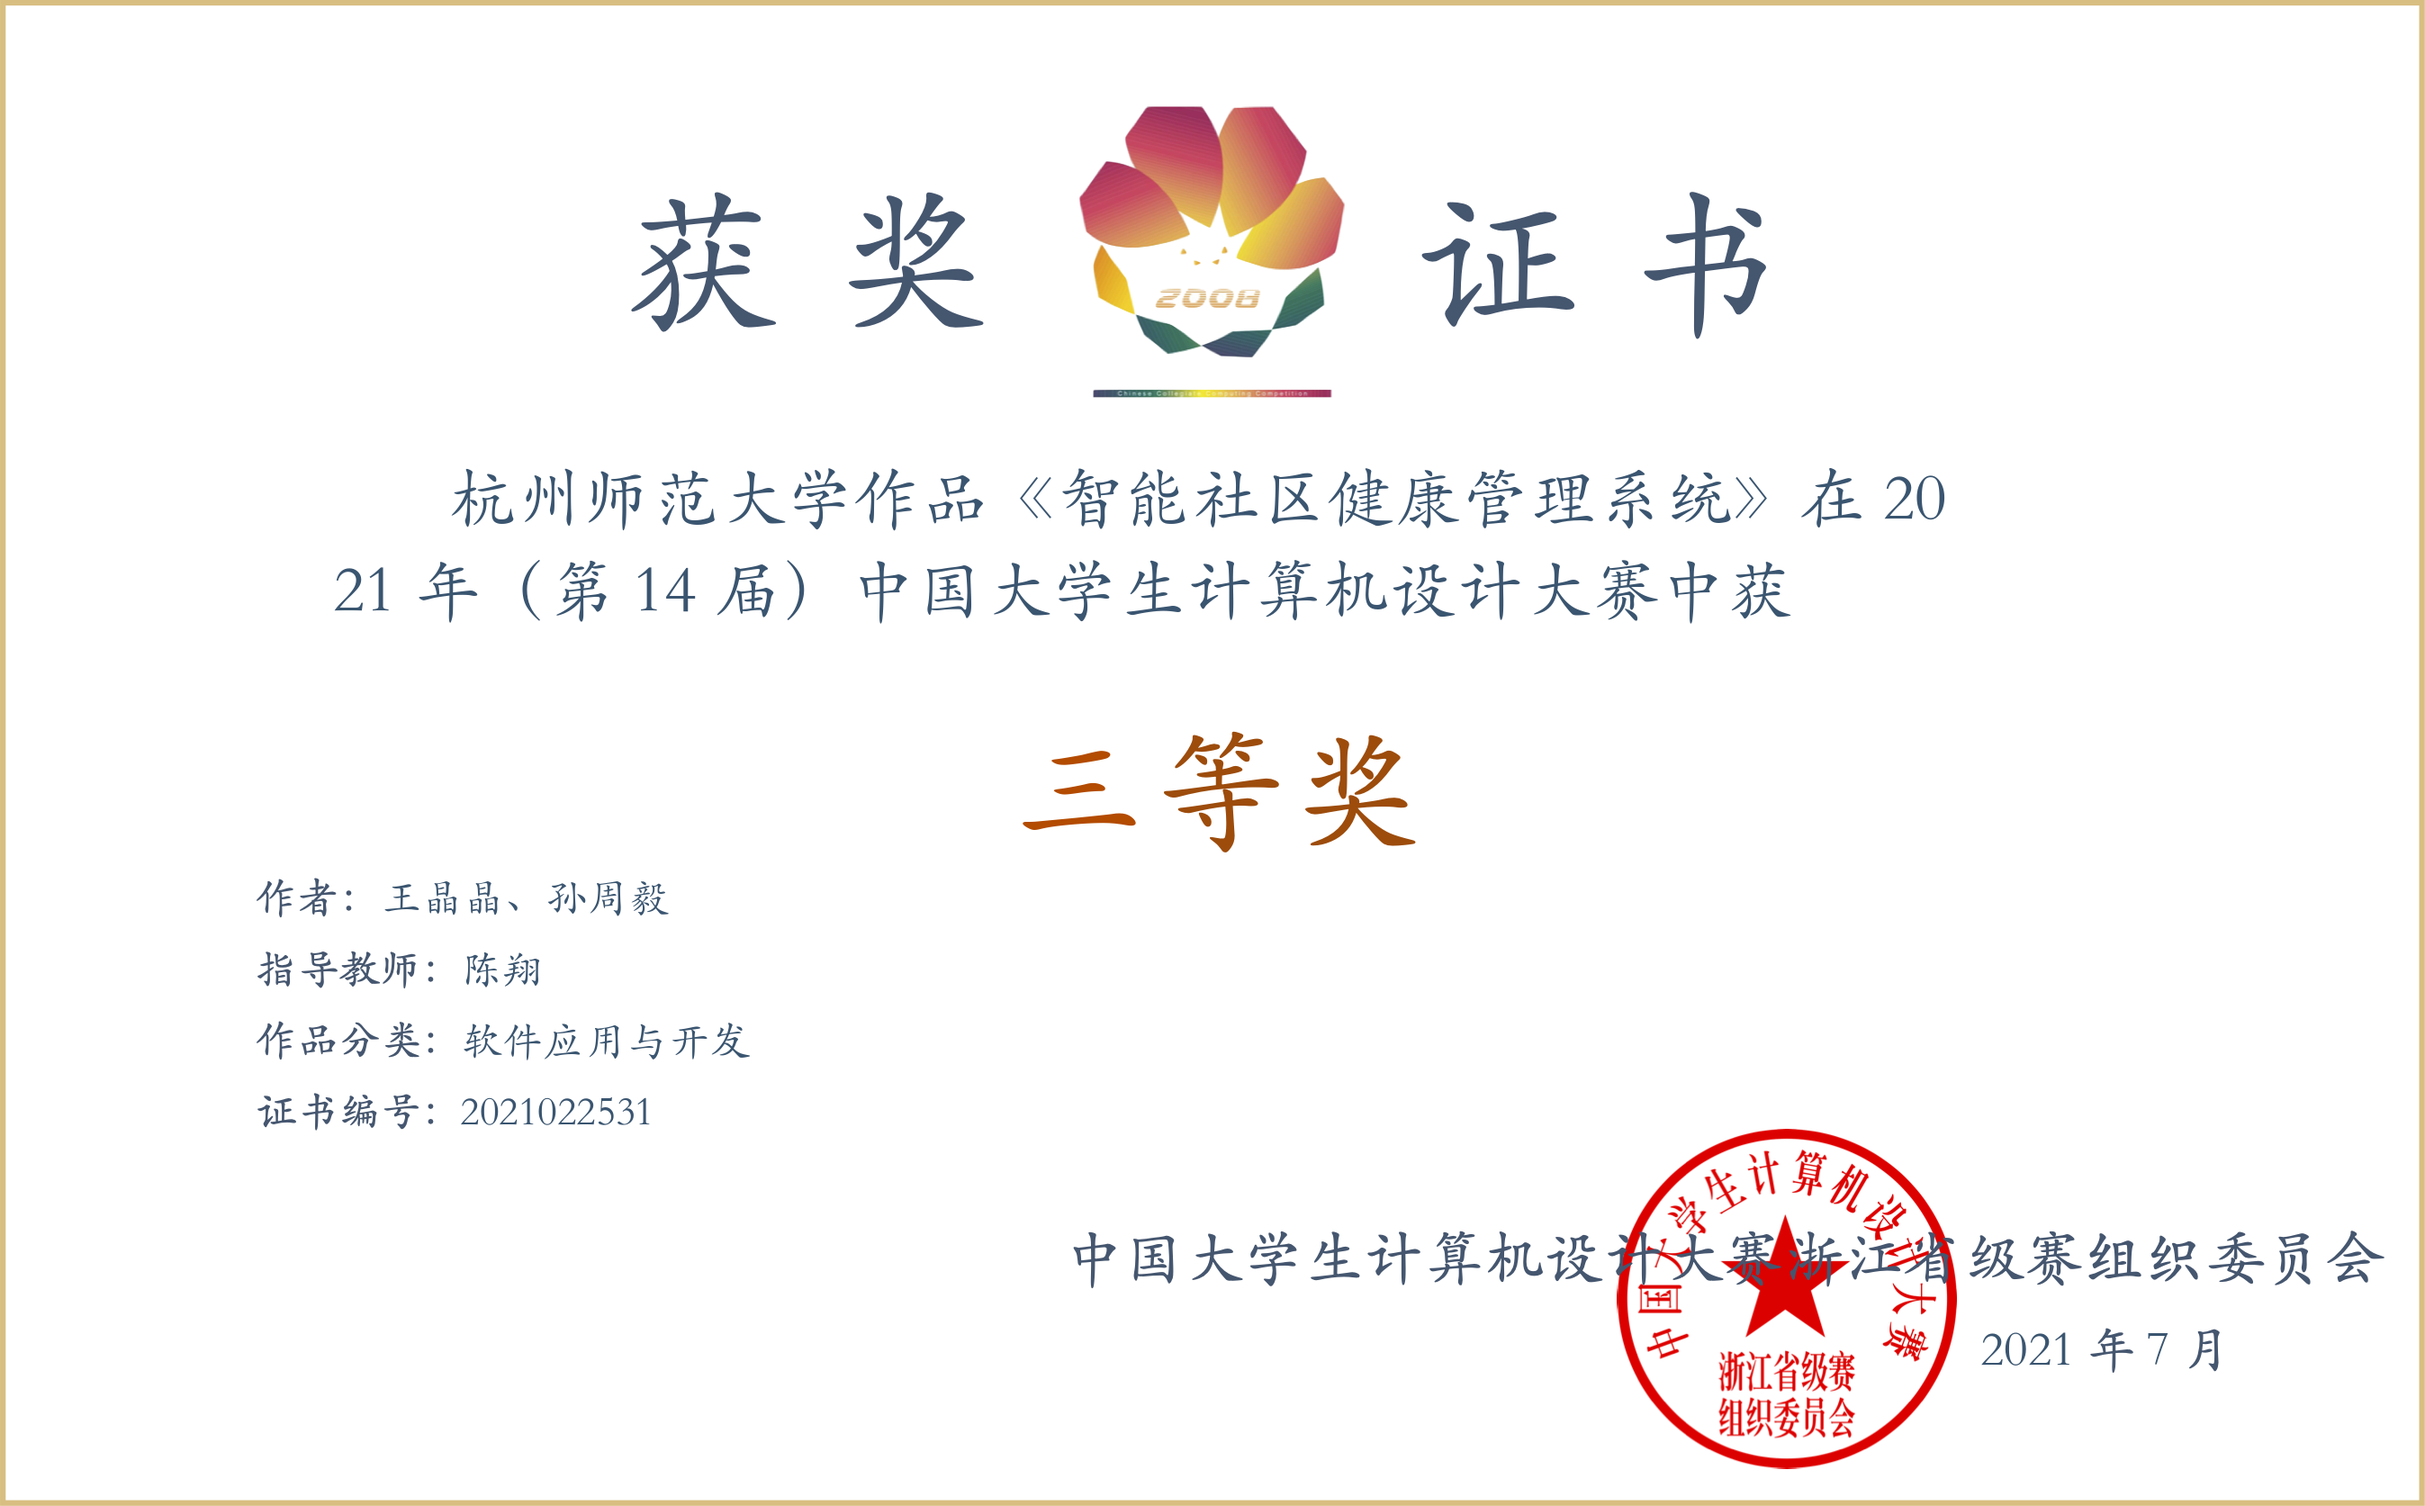
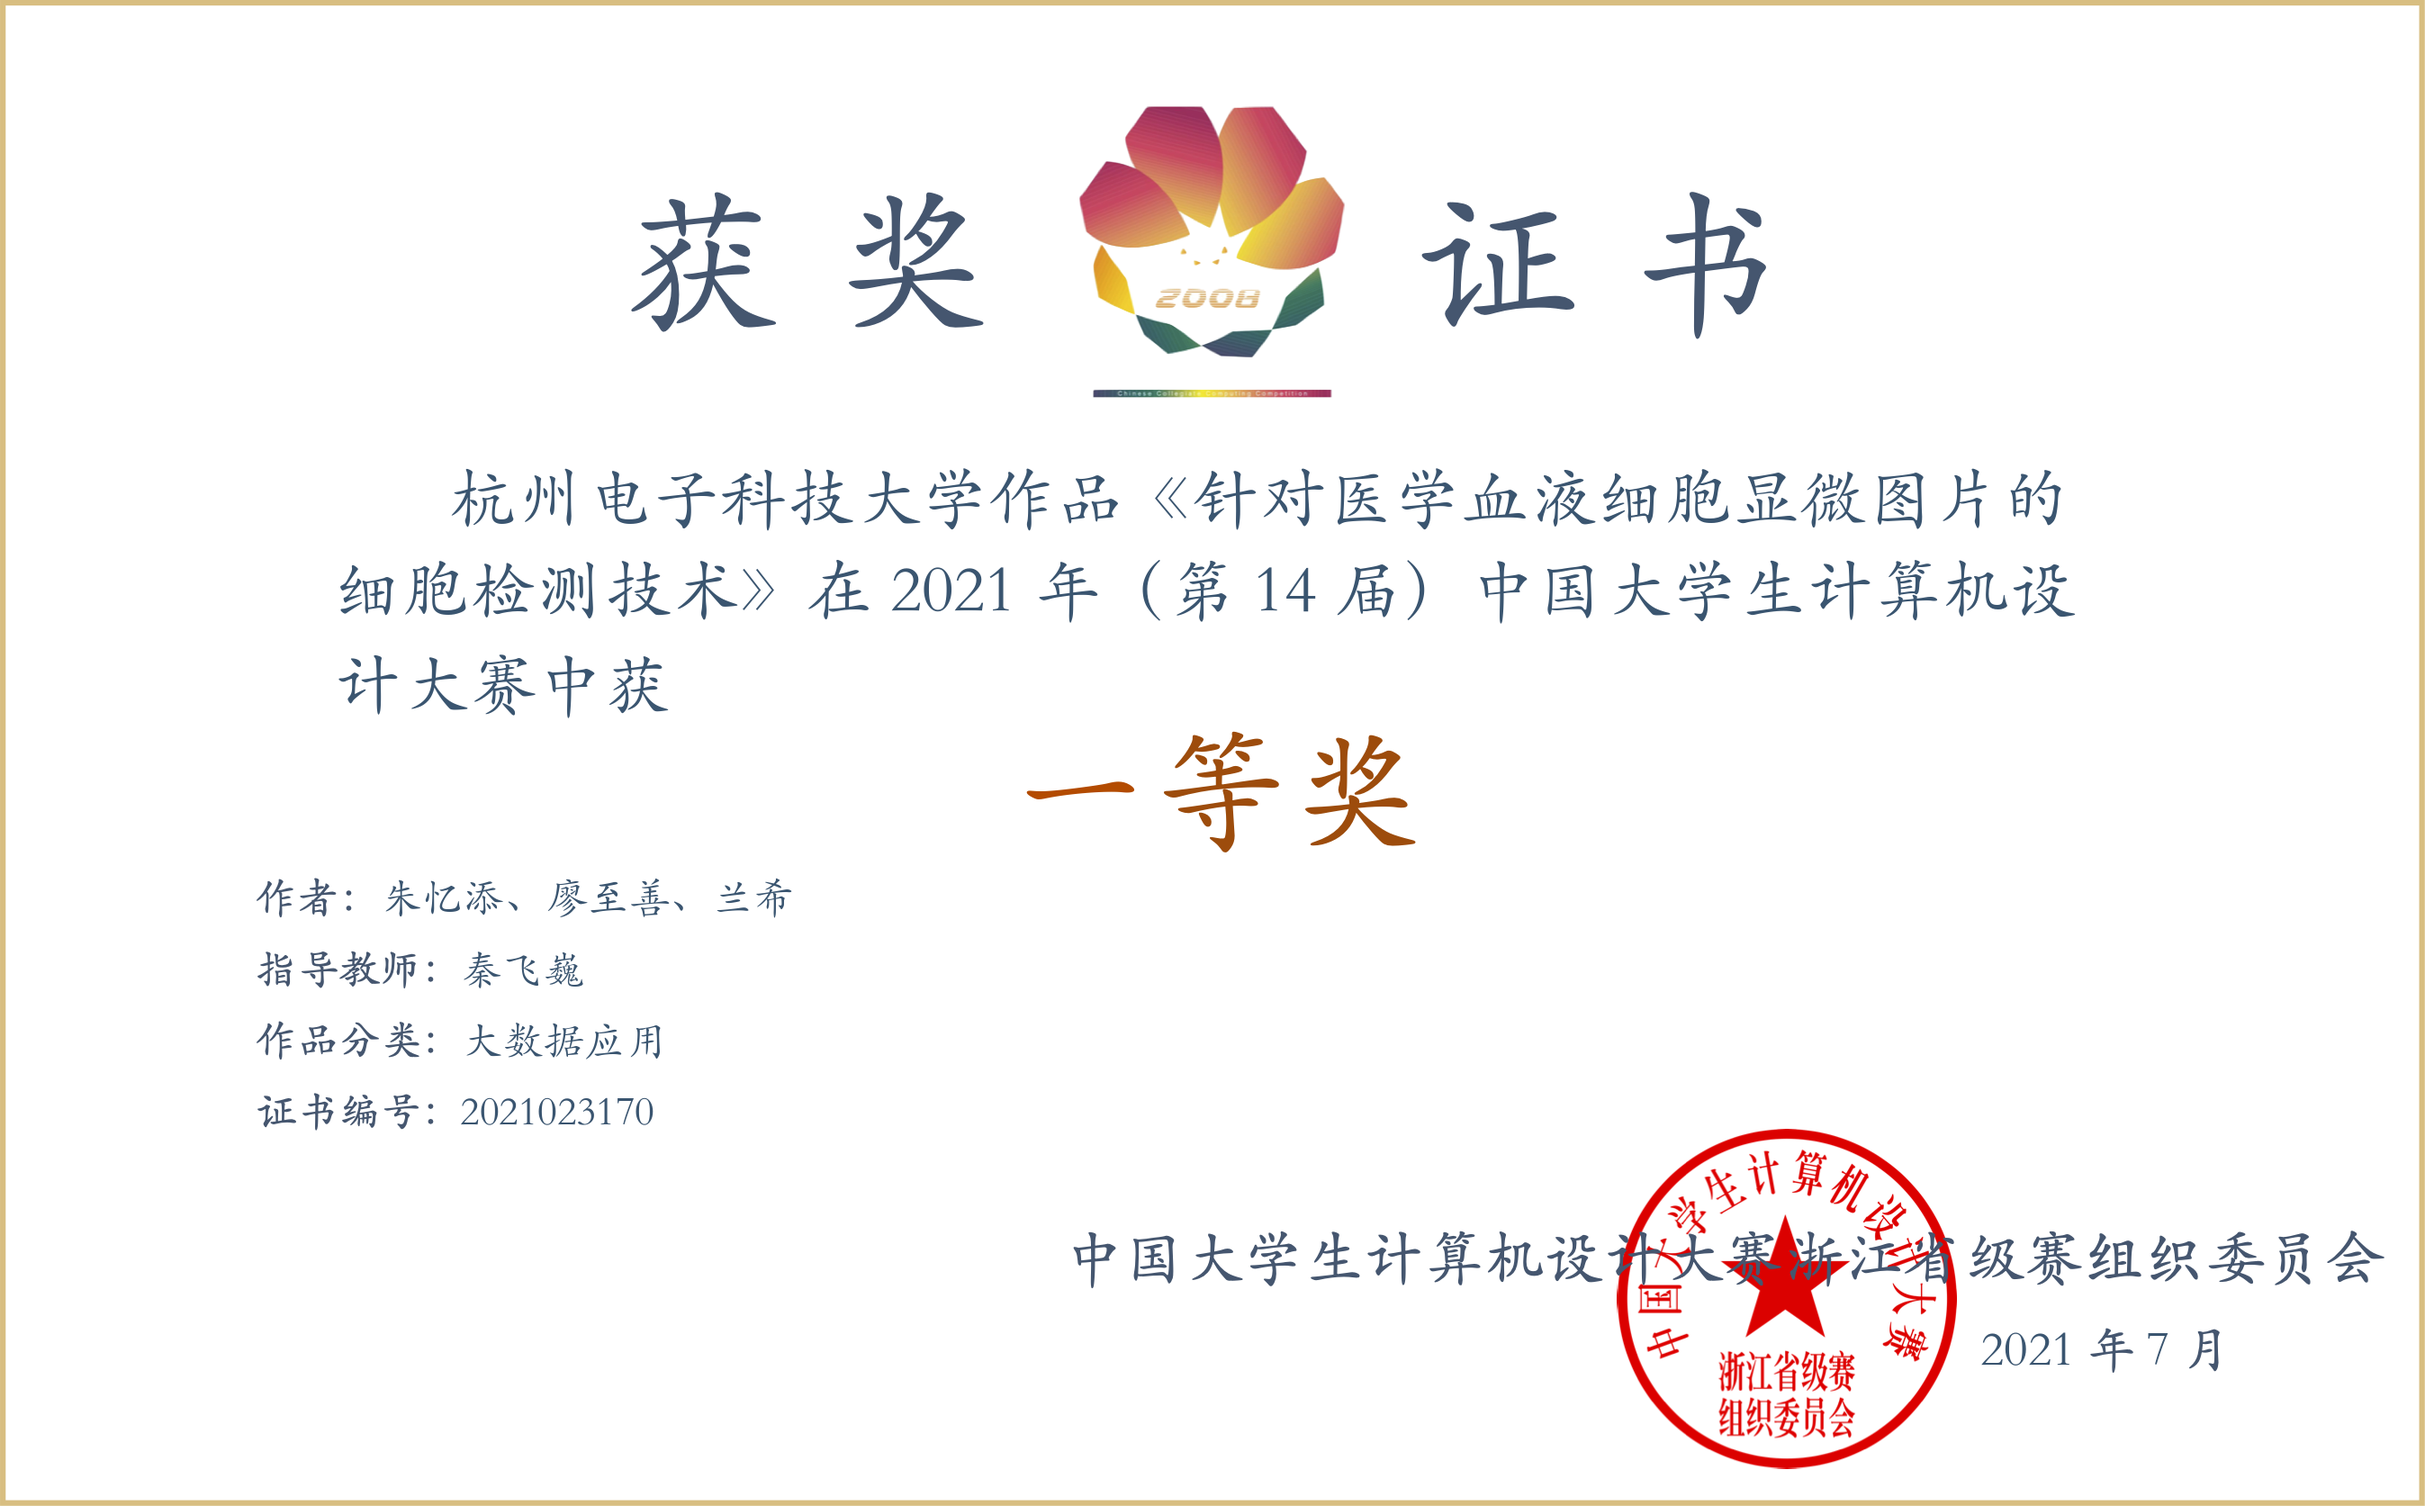
Complete automatic branch function

diff --git a/test.py b/test.py
@@ -1,11 +1,52 @@
 
-from GenCertificateInfo import CertificateInformation
-from InfoSource.dealExcel import read_xlsx
+from TextProcess import *
+
+STKaiti = 'Source/Fonts/STKaiti.ttf'
+
+body_font = ImageFont.truetype(STKaiti, size=75)
+
+text = '杭州电子科技大学作品《针对医学血液细胞显微图片的细胞检测技术》在 2021 年（第 14 届）中国大学生计算机设计大赛中获'
+
+def splitText(text: str, warpSize: int):
+    splitPos = len(text)
+    while tempDraw.textsize(text[0:splitPos], font=body_font)[0] > warpSize:
+        if splitPos == 0:
+            break
+        splitPos -= 1
+    print(text[:splitPos])
+
+    punc = ['》', '）']
+    if text[splitPos] in punc:
+        splitPos += 1
+
+    def isAorD(idx):
+        c = text[idx]
+        return c.encode('UTF-8').isalpha() or c.encode('UTF-8').isdigit() or c == ' '
+
+    if isAorD(splitPos):
+        strat = splitPos
+        end = splitPos
+        while isAorD(strat):
+            strat -= 1
+        strat += 1
+        while isAorD(end):
+            end += 1
+        if tempDraw.textsize(text[strat:splitPos], font=body_font)[0] > \
+                tempDraw.textsize(text[splitPos:end], font=body_font)[0]:
+            splitPos = end
+        else:
+            splitPos = strat
+    print(tempDraw.textsize(text[0:splitPos], font=body_font))
+    return splitPos
+
+sp1 = splitText(text, 1800)
+sp2 = splitText(text[sp1:], 2000)
 
 
-tbFP = 'Source/NameList/nameList.xlsx'
+tempDraw.text((498, 502), text[0:sp1], font=body_font, fill=RGBColor(179, 75, 0))
+tempDraw.text((370, 604), text[sp1:sp1+sp2], font=body_font, fill=RGBColor(179, 75, 0))
+tempDraw.text((370, 709), text[sp1+sp2:], font=body_font, fill=RGBColor(179, 75, 0))
 
-readE = read_xlsx(tbFP)
-
-cert = CertificateInformation(readE[0])
-print(cert.id)
+save_adress = './zout.png'
+tempImg.save(save_adress)
+print("荣誉证书制作完成")

diff --git a/GenCertificateInfo.py b/GenCertificateInfo.py
@@ -1,7 +1,9 @@
 import time
 from TextProcess import *
 from InfoSource import Entries
+import string
 
+body_font = ImageFont.truetype(STKaiti, size=75)
 
 def nameSplic(names):
     s = ''
@@ -25,13 +27,46 @@ class CertificateInformation:
         self.classified = entrie.Entries_classifed
         self.id = entrie.Entries_id
 
-    def __splitBody(self):
-        sp1 = 24
-        sp2 = 56
+    def splitText(self, text:str, warpSize:int):
+        splitPos = len(text)
+        while tempDraw.textsize(text[0:splitPos], font=body_font)[0] > warpSize:
+            if splitPos == 0:
+                break
+            splitPos -= 1
 
-        L1 = self.bodyText[:sp1]
-        L2 = self.bodyText[sp1:sp2]
-        L3 = self.bodyText[sp2:]
+        punc = ['》', '）']
+        if text[splitPos] in punc:
+            splitPos += 1
+
+        def isAorD(idx):
+            c = text[idx]
+            return c.encode('UTF-8').isalpha() or c.encode('UTF-8').isdigit() or c == ' '
+
+        if isAorD(splitPos):
+            strat = splitPos
+            end = splitPos
+            while isAorD(strat):
+                strat -= 1
+            strat += 1
+            while isAorD(end):
+                end += 1
+            if tempDraw.textsize(text[strat:splitPos], font=body_font)[0] > tempDraw.textsize(text[splitPos:end], font=body_font)[0]:
+                splitPos = end
+            else:
+                splitPos = strat
+        print(tempDraw.textsize(text[0:splitPos], font=body_font))
+        return splitPos
+
+
+
+    def __splitBody(self):
+        pos1 = self.splitText(self.bodyText, 1800)
+        pos2 = self.splitText(self.bodyText[pos1:], 2000)
+        pos2 += pos1
+        print(pos1)
+        L1 = self.bodyText[0:pos1]
+        L2 = self.bodyText[pos1:pos2]
+        L3 = self.bodyText[pos2:]
         return L1, L2, L3
 
     def __getDateInfo(self):

diff --git a/main.py b/main.py
@@ -9,7 +9,7 @@ from InfoSource.dealExcel import read_xlsx
 sourceFP = 'Source/NameList/nameList.xlsx'
 
 awardInfo = read_xlsx(sourceFP)
-newCert = CertificateInformation(awardInfo[18])
+newCert = CertificateInformation(awardInfo[0])
 
 
 

diff --git a/TextProcess.py b/TextProcess.py
@@ -45,6 +45,7 @@ class bodyStyle(TextStyle):
        font = self.makeFont()
        img.text((x, y), text, font=font, fill=self.color)
 
+
 class infoStyle(TextStyle):
    size = 46
    color = RGBColor(58, 85, 112)

diff --git a/README.md b/README.md
@@ -6,5 +6,5 @@ pip install Pillow python-doxc xlrd==1.2.0
 
 待完成事项：
 
-- [ ]  正文部分自动分行
-
+- [x]  正文部分自动分行
+- [ ]  png 转 pdf
